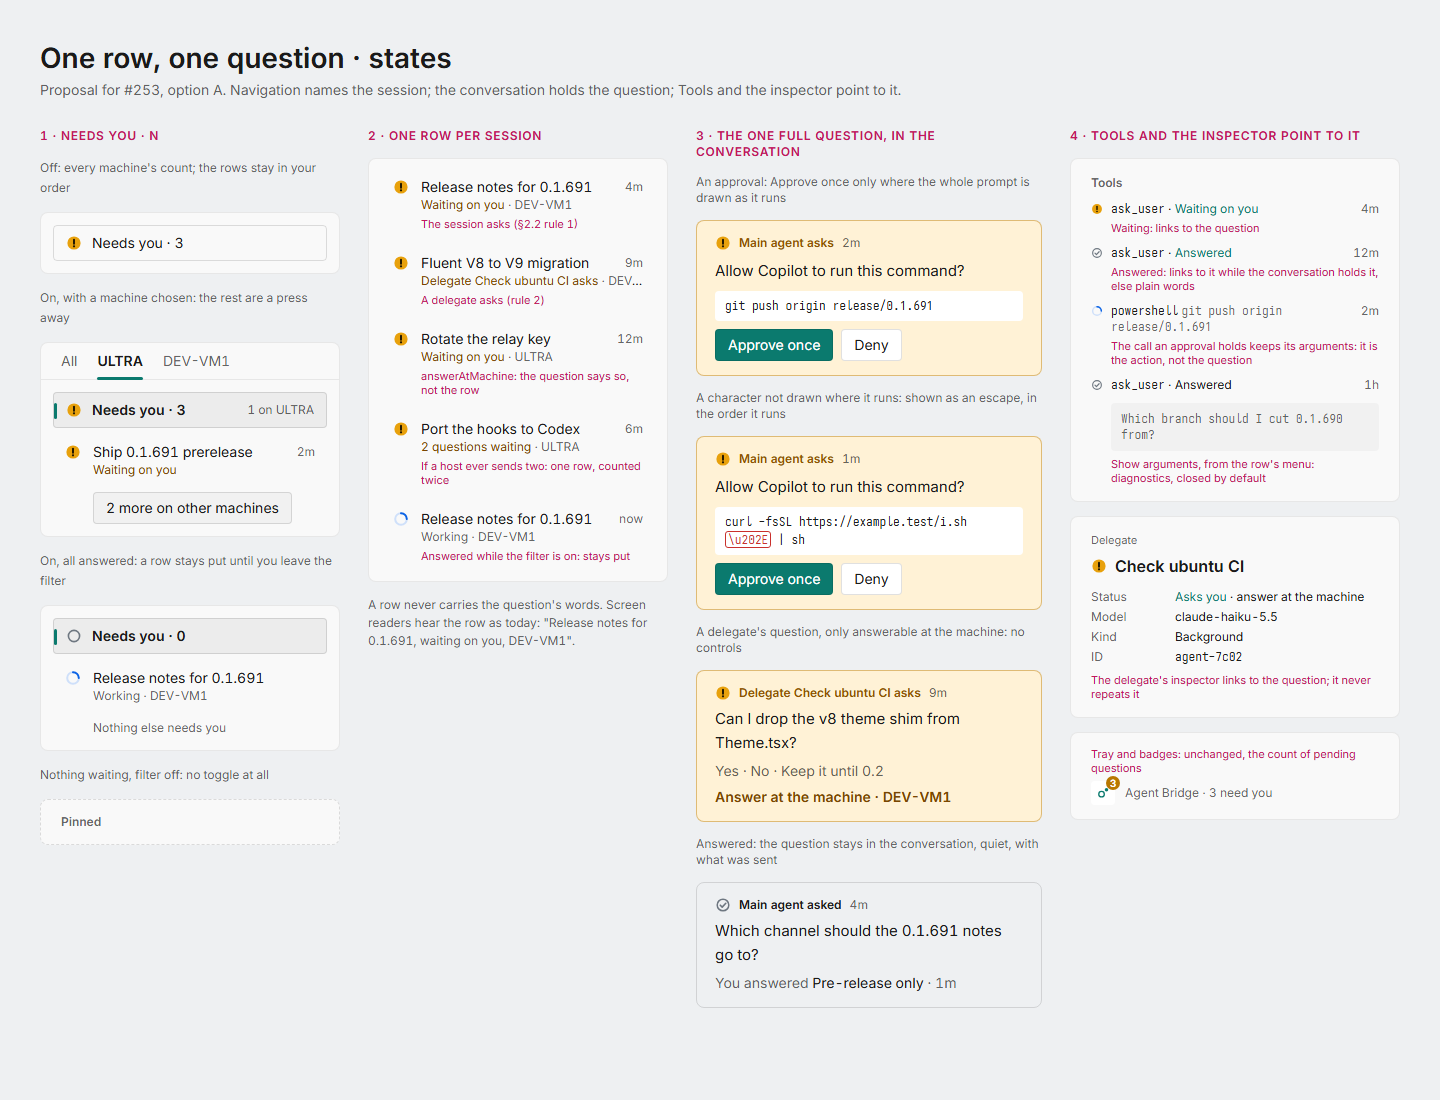
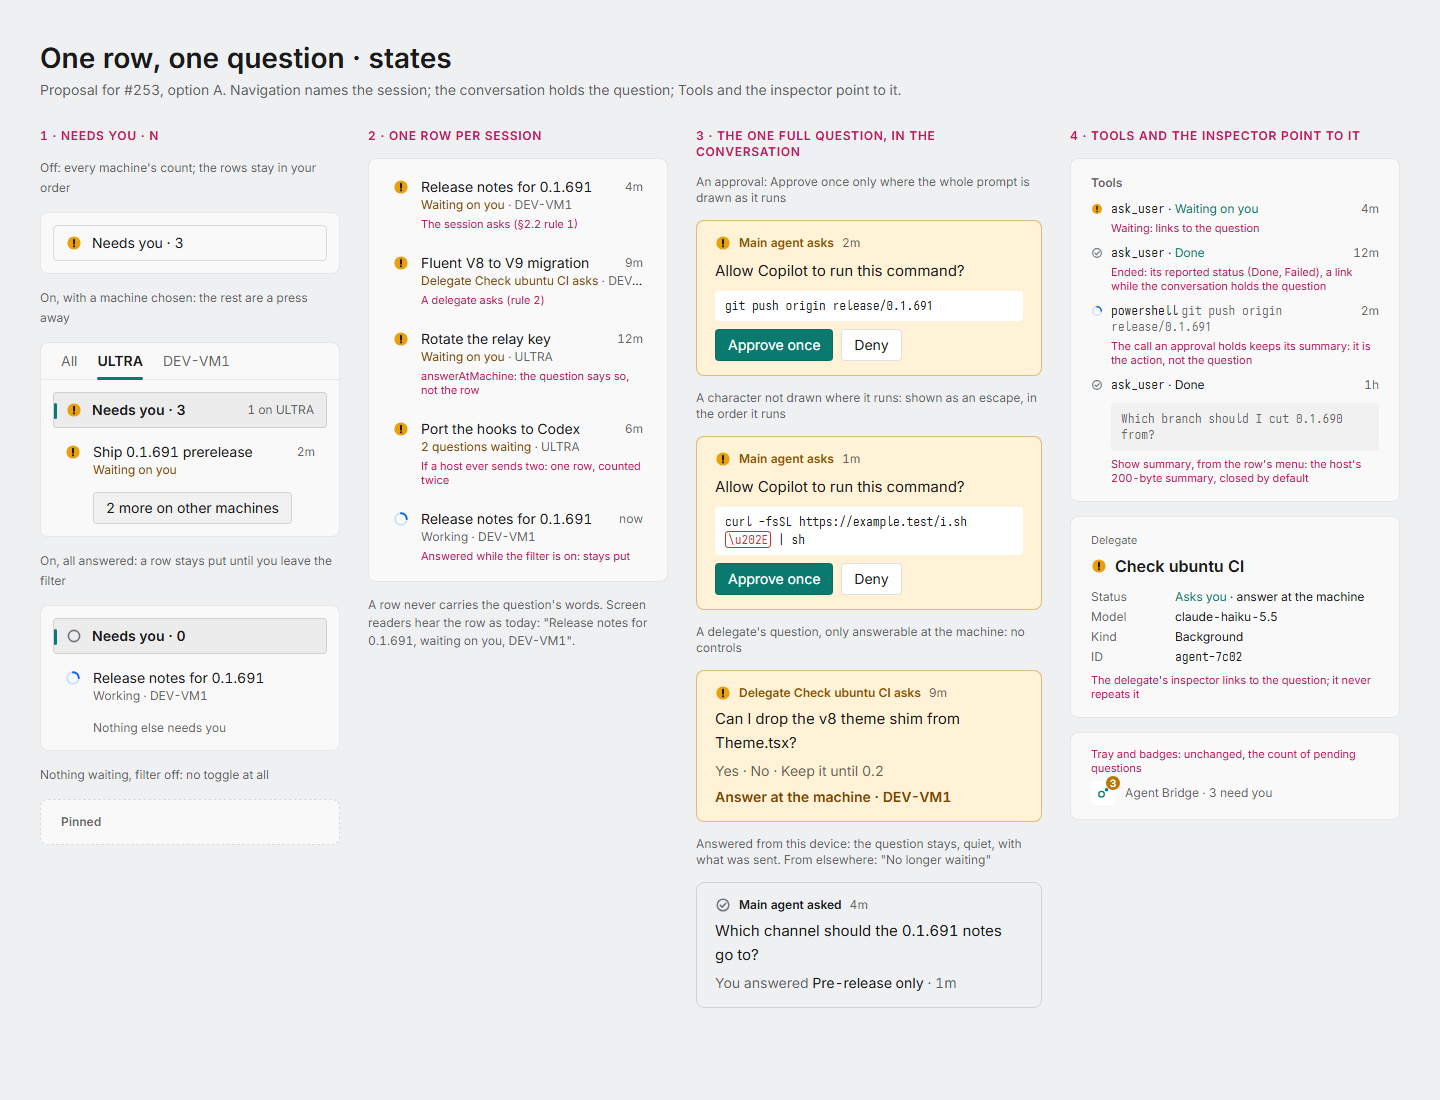
Proposal #253: claim no answer the protocol doesn't report, keep the table check, say summary
Review on #302: a question resolved elsewhere, or whose ask_user call ended without an answer,
reads "No longer waiting" and Tools shows the call's reported status (Done, Failed), keeping
"Answered" for an answer this device sent and the host confirmed; a prompt with a table is drawn
literal on the card, as the lane refused it, since the renderer drops cells beyond the header;
and the Tools disclosure is "Show summary", the host's 200-byte summary, since protocol v1 sends
no tool arguments.

Copilot-Session: 4d05d459-8852-4d75-8d24-976867c8b351

diff --git a/design/canvas/Proposal-253-States.dc.html b/design/canvas/Proposal-253-States.dc.html
@@ -104,7 +104,7 @@ button,input,textarea{font:inherit}
         <div style="font-size: 14px; line-height: 20px; font-weight: 600; color: {{t.amberText}}">Answer at the machine&#160;· DEV-VM1</div>
       </section>
 
-      <div style="font-size: 12px; line-height: 16px; color: {{t.text2}}">Answered: the question stays in the conversation, quiet, with what was sent</div>
+      <div style="font-size: 12px; line-height: 16px; color: {{t.text2}}">Answered from this device: the question stays, quiet, with what was sent. From elsewhere: "No longer waiting"</div>
       <section style="border-radius: 8px; border: 1px solid {{t.stroke2}}; padding: 14px 18px; display: flex; flex-direction: column; gap: 6px">
         <div style="display: flex; align-items: center; gap: 8px; font-size: 12px; line-height: 16px; color: {{t.text2}}"><dc-import name="Glyph" kind="done" theme="{{theme}}" size="16" hint-size="16px,16px"></dc-import><span style="font-weight: 600; color: {{t.text}}">Main agent asked</span><span>4m</span></div>
         <p style="margin: 0">Which channel should the 0.1.691 notes go to?</p>
@@ -119,13 +119,13 @@ button,input,textarea{font:inherit}
         <div style="font-weight: 600; color: {{t.text2}}">Tools</div>
         <div style="display: flex; gap: 8px"><span style="padding-top: 2px; display: flex"><dc-import name="Glyph" kind="needs" theme="{{theme}}" size="12" hint-size="12px,12px"></dc-import></span><span style="flex: 1"><span style="font-family: {{mono}}">ask_user</span>&#160;· <a href="#" style="color: {{t.link}}; text-decoration: none">Waiting on you</a></span><span style="color: {{t.text2}}">4m</span></div>
         <div style="font-size: 11px; line-height: 14px; color: {{t.cap}}; margin: -6px 0 0 20px">Waiting: links to the question</div>
-        <div style="display: flex; gap: 8px"><span style="padding-top: 2px; display: flex"><dc-import name="Glyph" kind="done" theme="{{theme}}" size="12" hint-size="12px,12px"></dc-import></span><span style="flex: 1"><span style="font-family: {{mono}}">ask_user</span>&#160;· <a href="#" style="color: {{t.link}}; text-decoration: none">Answered</a></span><span style="color: {{t.text2}}">12m</span></div>
-        <div style="font-size: 11px; line-height: 14px; color: {{t.cap}}; margin: -6px 0 0 20px">Answered: links to it while the conversation holds it, else plain words</div>
+        <div style="display: flex; gap: 8px"><span style="padding-top: 2px; display: flex"><dc-import name="Glyph" kind="done" theme="{{theme}}" size="12" hint-size="12px,12px"></dc-import></span><span style="flex: 1"><span style="font-family: {{mono}}">ask_user</span>&#160;· <a href="#" style="color: {{t.link}}; text-decoration: none">Done</a></span><span style="color: {{t.text2}}">12m</span></div>
+        <div style="font-size: 11px; line-height: 14px; color: {{t.cap}}; margin: -6px 0 0 20px">Ended: its reported status (Done, Failed), a link while the conversation holds the question</div>
         <div style="display: flex; gap: 8px"><span style="padding-top: 2px; display: flex"><dc-import name="Glyph" kind="working" theme="{{theme}}" size="12" hint-size="12px,12px"></dc-import></span><span style="flex: 1"><span style="font-family: {{mono}}">powershell</span> <span style="font-family: {{mono}}; color: {{t.text2}}">git push origin release/0.1.691</span></span><span style="color: {{t.text2}}">2m</span></div>
-        <div style="font-size: 11px; line-height: 14px; color: {{t.cap}}; margin: -6px 0 0 20px">The call an approval holds keeps its arguments: it is the action, not the question</div>
-        <div style="display: flex; gap: 8px"><span style="padding-top: 2px; display: flex"><dc-import name="Glyph" kind="done" theme="{{theme}}" size="12" hint-size="12px,12px"></dc-import></span><span style="flex: 1"><span style="font-family: {{mono}}">ask_user</span>&#160;· Answered</span><span style="color: {{t.text2}}">1h</span></div>
+        <div style="font-size: 11px; line-height: 14px; color: {{t.cap}}; margin: -6px 0 0 20px">The call an approval holds keeps its summary: it is the action, not the question</div>
+        <div style="display: flex; gap: 8px"><span style="padding-top: 2px; display: flex"><dc-import name="Glyph" kind="done" theme="{{theme}}" size="12" hint-size="12px,12px"></dc-import></span><span style="flex: 1"><span style="font-family: {{mono}}">ask_user</span>&#160;· Done</span><span style="color: {{t.text2}}">1h</span></div>
         <div style="margin-left: 20px; padding: 8px 10px; border-radius: 4px; background: {{t.subtle}}; font-family: {{mono}}; color: {{t.text2}}; white-space: pre-wrap">Which branch should I cut 0.1.690 from?</div>
-        <div style="font-size: 11px; line-height: 14px; color: {{t.cap}}; margin: -4px 0 0 20px">Show arguments, from the row's menu: diagnostics, closed by default</div>
+        <div style="font-size: 11px; line-height: 14px; color: {{t.cap}}; margin: -4px 0 0 20px">Show summary, from the row's menu: the host's 200-byte summary, closed by default</div>
       </div>
 
       <div style="background: {{t.layer}}; border: 1px solid {{t.stroke}}; border-radius: 8px; padding: 16px 20px; display: flex; flex-direction: column; gap: 8px">

diff --git a/docs/design/proposals/253-attention.md b/docs/design/proposals/253-attention.md
@@ -200,11 +200,15 @@ Every state, below, is on [the states board](253-attention/proposal-253-states.p
   `truncated` flag changing) updates the card in place. It never adds a second card.
 - **The Now line gives way.** While the session waits on its question (rule 1 or 2), the
   conversation doesn't show the running tool's line above it. The card says what is happening.
-- **Answered:** the card quietens, with no Needs you fill and the `done` glyph:
-  - it reads "Main agent asked", then the question, then "You answered *Pre-release only* · 1m";
-  - it stays in the conversation as long as the session's activity holds it;
-  - an answer sent from another device, or at the machine, shows what the host reports, as
-    today's receipt does.
+- **Resolved:** the card quietens, with no Needs you fill. The client keeps the question it was
+  shown, since the host clears it, and draws it with "Main agent asked" and then the question.
+  Below that:
+  - answered from this device and confirmed by the host: the `done` glyph and "You answered
+    *Pre-release only* · 1m", from the answer service's own record (as today's receipt);
+  - otherwise (answered at the machine or on another device, or the call ended without an
+    answer): the `idle` glyph and "No longer waiting · 1m". Protocol v1 doesn't say what another
+    device or the terminal answered, or whether anything was, so the card doesn't claim to know;
+  - it stays until the session's next turn replaces what the conversation shows.
 - **Answer at the machine:**
   - the card shows the whole question with no controls, and one line in Needs you's text colour:
     "Answer at the machine · DEV-VM1";
@@ -233,6 +237,10 @@ approval:
   in the prose, a fence not last, or an info string other than none, json or diff
   (`literalShape`). Nothing can hide behind a link's words or a fence the agent's own words
   closed.
+- **A prompt with a table** is drawn literal too. `literalShape` lets a table through, but the
+  Markdown renderer drops body cells beyond the header's columns (`pwa/js/markdown.js`) and a
+  table scrolls sideways. So a table could hide part of what is approved. The lane refused such
+  prompts (`HasTable`), and the card keeps that check.
 - **Length:** the card wraps and never cuts, so a long command or an edit's diff is shown whole
   and Approve once stays. U2's 600-character and 12-line cap was the lane's room, not a
   security rule.
@@ -244,15 +252,20 @@ approval:
 ### 4.5 Tools, and the delegate inspector
 
 - **The `ask_user` call whose id is the pending question's** (Question `id` is "the id of the tool
-  call that asked it") is one line with no arguments:
+  call that asked it") is one line without its summary:
   - the `needs` glyph, `ask_user` in mono, then "Waiting on you" as a link that goes to the
     question, then the age;
-  - answered, the `done` glyph and "Answered": a link while the conversation holds the question,
-    and plain words after.
-- **Every other `ask_user` call** shows "Answered" the same way, never its arguments.
-- **Its arguments, for diagnosis:** "Show arguments" in the row's menu (right-click, long press,
-  Shift+F10) discloses them under the row (§5.3 *Disclosure*). They are closed by default and
-  never open on their own.
+  - once the question clears, the call's reported status, with its glyph: "Done" (`done`) or
+    "Failed" (`failed`), since a call can end without an answer (`CopilotParser` clears the
+    question whatever the completion). "Answered" is said only when this device's answer to that
+    question was confirmed. The words link to the question while the conversation holds it, and
+    are plain words after.
+- **Every other `ask_user` call** follows the same rule: its status in words, never its summary.
+- **Its summary, for diagnosis:** "Show summary" in the row's menu (right-click, long press,
+  Shift+F10) discloses it under the row (§5.3 *Disclosure*). It is closed by default and never
+  opens on its own. This is the `summary` the host already sends (at most 200 bytes), labelled
+  as such, not the call's arguments: protocol v1 sends none, even in `session.get`. Showing
+  real arguments would need host and protocol work, and a privacy review, outside this change.
 - **The call an approval holds** (say `powershell git push …`) keeps its name and arguments: it is
   the action, not the question, and a permission prompt's id (`<requestId>#<digest>`) names no
   tool call to link from.
@@ -406,8 +419,10 @@ one presentation kept. High contrast isn't drawn: the canvas has no such theme (
 -  At three panes it heads the inspector, over Tools (each call: glyph, name and arguments in
 -  mono, age).
 +  At three panes it heads the inspector, over Tools (each call: glyph, name and arguments in
-+  mono, age). An `ask_user` call has no arguments there: it reads "Waiting on you", a link to
-+  its question, or "Answered". "Show arguments" in the row's menu discloses them, for diagnosis.
++  mono, age). An `ask_user` call has no summary there: it reads "Waiting on you", a link to
++  its question, or its reported status ("Done", "Failed"; "Answered" only for an answer this
++  device sent and the host confirmed). "Show summary" in the row's menu discloses the summary the
++  host sent, for diagnosis.
 ```
 
 ```diff
@@ -436,12 +451,13 @@ one presentation kept. High contrast isn't drawn: the canvas has no such theme (
 +    private-use or unassigned code points, U+2028/2029) is a visible escape (`\u202E`). Its
 +    code keeps right-to-left letters in the order they run. A prompt not shaped as a host writes
 +    a permission (§6.1's old rule: prose, then at most one fenced block ending it, its fence
-+    naming no language but json or diff, and no link whose words hide where it goes) is drawn
-+    as literal text, not Markdown.
++    naming no language but json or diff, and no link whose words hide where it goes), or with a
++    table, is drawn as literal text, not Markdown.
 +  - `answerAtMachine`: the question, no controls, and "Answer at the machine · *machine*".
 +    Leaving it is never an answer.
-+  - Answered, it quietens ("Main agent asked", the `done` glyph) and shows what was sent, for as
-+    long as the session's activity holds it.
++  - Resolved, it quietens ("Main agent asked") and stays until the next turn: "You answered
++    *value*" (`done`) for an answer this device sent and the host confirmed, otherwise "No
++    longer waiting" (`idle`), since the protocol doesn't say what was answered elsewhere.
 +  - Several at once (if a host sends them): one card each, in the order asked, "1 of N" in the
 +    heading.
 +- **Now:** the tool the main agent is running, as a meta line under its reply (glyph, then the
@@ -509,7 +525,7 @@ device approves on a machine. So each takes an independent security review befor
   bidi-override.
 - `ui/session-card.js`:
   - drops the Now line while waiting;
-  - draws the linked `ask_user` row in Tools, with Show arguments in its menu;
+  - draws the linked `ask_user` row in Tools, with its reported status and Show summary in its menu;
   - lands focus on the question when opened from a waiting row.
 - `ui/delegates-view.js` gets the Status link.
 - The lane's markup in `index.html` and its rules in `app.css` go.
@@ -517,7 +533,7 @@ device approves on a machine. So each takes an independent security review befor
 **App (slice 3):**
 - `App.Core`:
   - `NeedsYouEntry`'s checks (`WholePrompt`, `LiteralShape`, `HasHidden`, `HasRightToLeft`,
-    `Reveal`) move to an `ApprovalPrompt` helper that `QuestionViewModel` uses;
+    `Reveal`, `HasTable`) move to an `ApprovalPrompt` helper that `QuestionViewModel` uses;
   - `MainViewModel.NeedsYou` becomes a `NeedsYouFilter` (pressed, N, "N on *machine*") and a
     filter over `Sessions`, with `Waiting` from the cards;
   - `SessionCardViewModel` gets `ShowNowLine` and an `ask_user` `ToolRow` with a question link;
@@ -525,7 +541,7 @@ device approves on a machine. So each takes an independent security review befor
 - `App`:
   - in `SessionsPage.xaml`, the `ListView.Header` lane becomes a `ToggleButton`;
   - `QuestionView.xaml` draws the escapes and the literal shape;
-  - `ToolList.xaml` gets the link row and Show arguments in a context menu;
+  - `ToolList.xaml` gets the link row and Show summary in a context menu;
   - in `SessionView.xaml`, the Now line hides while waiting;
   - the tray and Sessions badge bind to `Waiting`, unchanged.
 - `SelfTest` checks follow.
@@ -543,8 +559,8 @@ device approves on a machine. So each takes an independent security review befor
     order it runs;
   - an approval whose command holds right-to-left letters draws them in the order they run, not
     reordered;
-  - an approval whose prompt a link or a fence could make draw differently is drawn as literal
-    text, not Markdown;
+  - an approval whose prompt a link, a fence or a table could make draw differently is drawn as
+    literal text, not Markdown;
   - Approve once sends the request for exactly the question id shown, and nothing in the list
     sends an answer (no list control is wired to the answer service);
   - a prompt that arrived cut short still can't be answered from here;
@@ -563,10 +579,15 @@ device approves on a machine. So each takes an independent security review befor
     width;
   - an update to the same question id changes its card in place, and never adds a second;
   - the Now line gives way to the question while the session waits on it;
-  - an answered question stays in the conversation, quiet, with what was sent.
+  - a question this device answered stays in the conversation, quiet, with what was sent and
+    confirmed;
+  - a question resolved elsewhere, or whose call ended without an answer, says "No longer
+    waiting" and claims no answer.
 - **Tools and delegates:**
-  - the `ask_user` call in Tools names no arguments, links to its question, and Show arguments
-    discloses them;
+  - the `ask_user` call in Tools shows no summary, links to its question, and Show summary
+    discloses the summary the host sent;
+  - an `ask_user` call that ended without an answer shows its reported status (Done or Failed),
+    never "Answered";
   - a delegate that asks has a Status link to its question, and its question shows once.
 - **Accessibility:**
   - the toggle is named for its count and scope and reports its pressed state;
